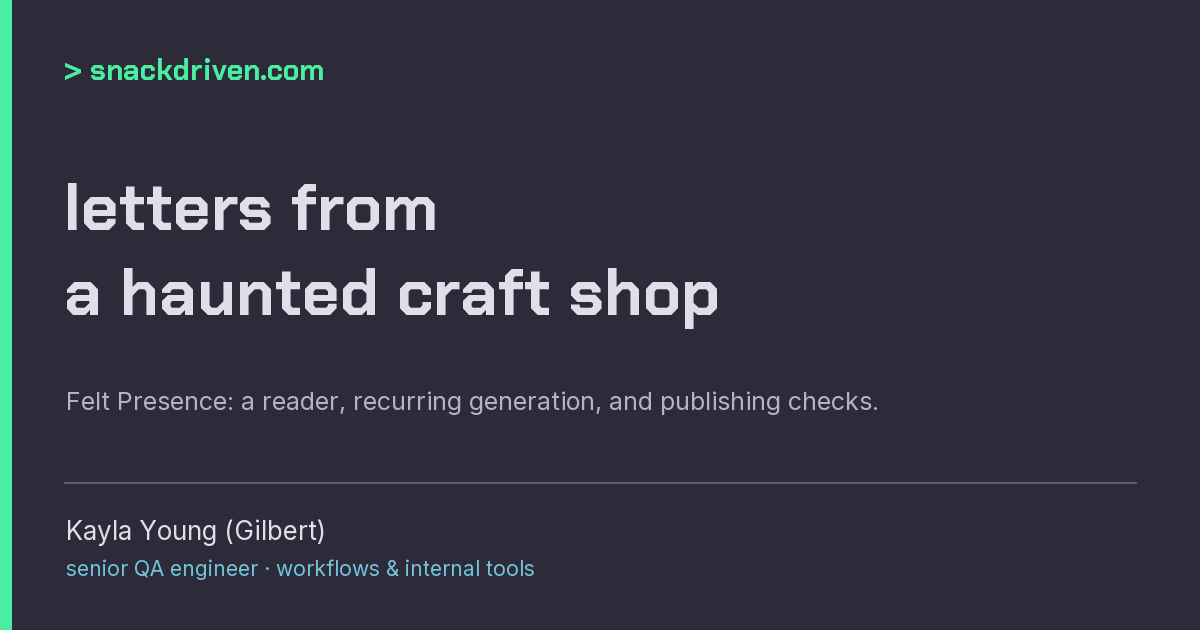
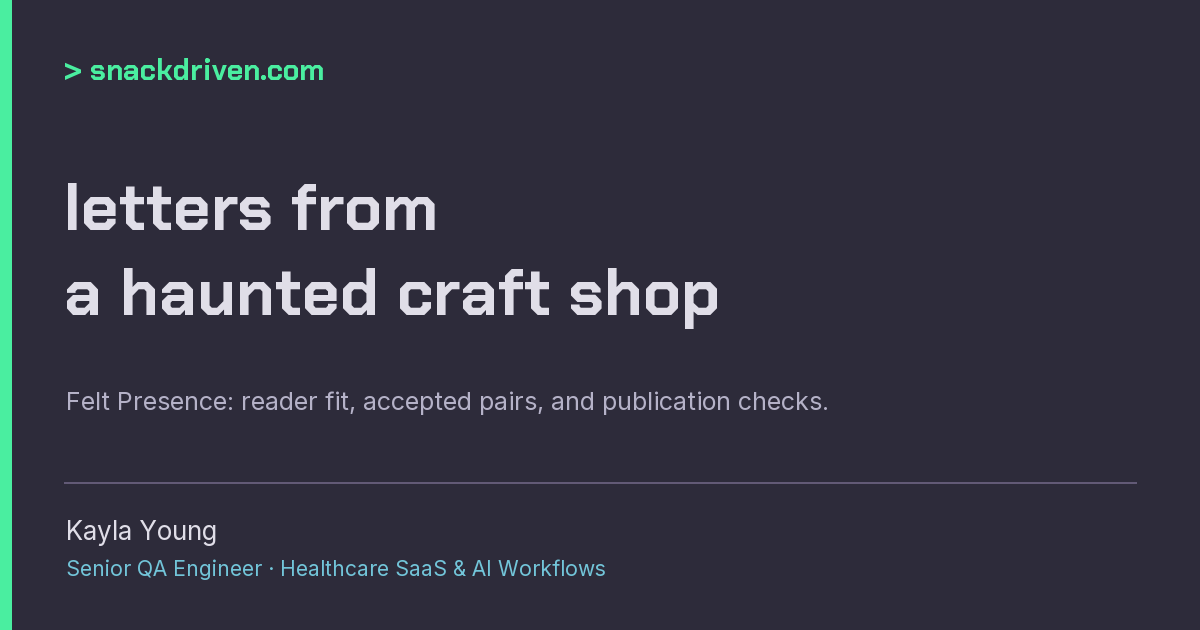
post: align portfolio case studies with current QA positioning

Changed region(s): [[0.0617, 0.8143, 0.4933, 0.9349], [0.185, 0.6032, 0.74, 0.6635]]

diff --git a/portfolio/projects/release-readiness.html b/portfolio/projects/release-readiness.html
@@ -2,16 +2,16 @@
 <html lang="en" data-theme="dark" data-ornament="signal">
 <head>
 <meta charset="UTF-8"><meta name="viewport" content="width=device-width, initial-scale=1">
-<meta name="description" content="Recurring release readiness: reconciling scope, preparing candidates, checking deployed builds, and coordinating engineering and delivery handoffs.">
+<meta name="description" content="How Kayla Young checked release scope against merged code and deployed builds, designed release-status workflows, and verified handoffs.">
 <meta property="og:title" content="Release readiness | Kayla Young">
-<meta property="og:description" content="Recurring release readiness: reconciling scope, preparing candidates, checking deployed builds, and coordinating engineering and delivery handoffs.">
+<meta property="og:description" content="How Kayla Young checked release scope against merged code and deployed builds, designed release-status workflows, and verified handoffs.">
 <meta property="og:url" content="https://snackdriven.com/portfolio/projects/release-readiness.html">
 <meta property="og:type" content="article">
-<meta property="og:image" content="https://snackdriven.com/assets/social/portfolio.png">
+<meta property="og:image" content="https://snackdriven.com/assets/social/release-readiness.png?v=37c87c6cac01">
 <meta property="og:image:width" content="1200"><meta property="og:image:height" content="630">
-<meta property="og:image:alt" content="Kayla Young: QA, useful tools, and a little weirdness.">
+<meta property="og:image:alt" content="Release readiness: what was ready and what actually shipped. Kayla Young, Senior QA Engineer.">
 <meta name="twitter:card" content="summary_large_image">
-<meta name="twitter:image" content="https://snackdriven.com/assets/social/portfolio.png">
+<meta name="twitter:image" content="https://snackdriven.com/assets/social/release-readiness.png?v=37c87c6cac01">
 <link rel="canonical" href="https://snackdriven.com/portfolio/projects/release-readiness.html">
 <title>Release readiness | Kayla Young</title>
 <link rel="stylesheet" href="/assets/site.css"><link rel="stylesheet" href="case-study.css"><link rel="stylesheet" href="portfolio-case-study.css"><link rel="stylesheet" href="../portfolio-system.css"><link rel="stylesheet" href="release-readiness.css">
@@ -38,14 +38,14 @@
 <a class="back-link" href="/portfolio/#selected-projects">&larr; Back to selected projects</a>
 <p class="case-kicker">Professional QA &middot; Release coordination</p>
 <h1>Keeping releases straight.</h1>
-<p class="case-lead">I reconciled scope, prepared release candidates, checked deployed builds, and coordinated engineering and delivery handoffs.</p>
+<p class="case-lead">I checked ticket scope against merged code and deployed builds, repeated staging smokes when candidates changed, and handed release and rollback versions to infrastructure.</p>
 <p class="case-result"><strong>Team use:</strong> Colleagues relied on my release cuts; delivery used my production update to plan customer communication.</p>
 <dl class="case-facts"><div><dt>Period</dt><dd>Dated examples from April&ndash;October 2026</dd></div><div><dt>My responsibility</dt><dd>Release preparation, readiness checks, and handoffs</dd></div></dl>
 </div><div class="case-layout">
 <nav class="contents" aria-label="On this page"><div class="contents-inner"><h2>On this page</h2><a href="#problem">Problem</a><a href="#decisions">Decisions</a><a href="#continuity">Over time</a><a href="#team-use">Team use</a><a href="#shared-qa">Shared QA changes</a><a href="#limits">Scope</a></div></nav>
 <article class="case-body">
 <section id="problem"><h2 class="case-section-label"><span class="case-section-number" aria-hidden="true">01</span><span>Problem</span></h2><div class="case-section-content"><p>Ticket status, merged code, and deployed builds could disagree. I reconciled them so engineering knew what to test and delivery knew what had reached production.</p></div></section>
-<section id="decisions"><h2 class="case-section-label"><span class="case-section-number" aria-hidden="true">02</span><span>Decisions</span></h2><div class="case-section-content"><p>I checked scope against merged code and tags, kept environment status separate, and repeated smokes when candidates changed. Infrastructure colleagues handled their production steps.</p><p>My tools assembled Jira, GitHub, and release context. AI helped with implementation and drafts; I reviewed the evidence and controlled posting. <a href="qa-workflow.html">See the review workflow</a>.</p></div></section>
+<section id="decisions"><h2 class="case-section-label"><span class="case-section-number" aria-hidden="true">02</span><span>Decisions</span></h2><div class="case-section-content"><p>I checked scope against merged code and tags, kept environment status separate, and repeated smokes when candidates changed. Infrastructure colleagues handled their production steps.</p><p>I designed a release-status workflow combining Jira, GitHub PR state and release discussions into Google Docs and Confluence updates. AI handled implementation and draft assembly; I reviewed the evidence, controlled posting, and kept QA acceptance verdicts human-written. <a href="qa-workflow.html">See the review workflow</a>.</p></div></section>
 <section id="continuity"><h2 class="case-section-label"><span class="case-section-number" aria-hidden="true">03</span><span>Over time</span></h2><div class="case-section-content">
 <ol class="release-timeline">
 <li><p class="release-date">April&ndash;May 2026</p><h3>Clarify environment status.</h3><p>Prepared release cuts and tags; posted staging and demo status.</p></li>
@@ -53,8 +53,8 @@
 <li><p class="release-date">October 15, 2026</p><h3>Coordinate production.</h3><p>Handed release and rollback versions to infrastructure, then shared production and smoke status with delivery.</p></li>
 <li><p class="release-date">October 22, 2026</p><h3>Follow through after a re-cut.</h3><p>Updated the change record and confirmed it by readback. Escalated a queued deployment to the runner-infrastructure owner.</p></li>
 </ol></div></section>
-<section id="team-use"><h2 class="case-section-label"><span class="case-section-number" aria-hidden="true">04</span><span>Team use</span></h2><div class="case-section-content"><p>In July, a colleague relied on my release cuts and acknowledged the release-hygiene work. In October, delivery replied that it would notify the customer of the production update.</p></div></section>
-<section id="shared-qa"><h2 class="case-section-label"><span class="case-section-number" aria-hidden="true">05</span><span>Shared QA changes</span></h2><div class="case-section-content"><p>In July, I directed AI-assisted fixes to shared end-to-end test setup and worked through engineering review. The change made missing or broken modules fail immediately and limited retries to transient database-connection failures.</p><p>Retained review and merge records show the setup changes and companion testing documentation reached the shared repository. They do not establish a measured reduction in flaky tests.</p></div></section>
+<section id="team-use"><h2 class="case-section-label"><span class="case-section-number" aria-hidden="true">04</span><span>Team use</span></h2><div class="case-section-content"><p>In June, engineering leadership requested the release changelog in Confluence. Colleagues used it to answer a demo-readiness question, then corrected the staging-versus-demo comparison. The document helped with the question; it did not replace checking the environment.</p><p>In July, a colleague relied on my release cuts and acknowledged the release-hygiene work. In October, delivery replied that it would notify the customer of the production update.</p></div></section>
+<section id="shared-qa"><h2 class="case-section-label"><span class="case-section-number" aria-hidden="true">05</span><span>Shared QA changes</span></h2><div class="case-section-content"><p>In July, I specified changes to shared end-to-end test setup, directed AI-assisted implementation, and worked through engineering review. The change made missing or broken modules fail immediately and limited retries to transient database-connection failures.</p><p>Retained review and merge records show the setup changes and companion testing documentation reached the shared repository. They do not establish a measured reduction in flaky tests.</p></div></section>
 <section id="limits"><h2 class="case-section-label"><span class="case-section-number" aria-hidden="true">06</span><span>Scope</span></h2><div class="case-section-content"><p>Dated records show recurring QA preparation and handoffs across April&ndash;October 2026. Release decisions and production responsibilities were shared. These records include no incident-reduction metric.</p></div></section>
 <footer class="case-footer"><a href="platform-investigation.html">Next: Platform QA investigation &rarr;</a><a href="mailto:kayla@snackdriven.com">Contact Kayla</a></footer>
 </article></div></main>

diff --git a/portfolio/projects/qa-workflow.html b/portfolio/projects/qa-workflow.html
@@ -2,16 +2,16 @@
 <html lang="en" data-theme="dark" data-ornament="signal">
 <head>
 <meta charset="UTF-8"><meta name="viewport" content="width=device-width, initial-scale=1">
-<meta name="description" content="How Kayla Young designed an AI-assisted QA workflow that cross-checks requirements, recordings, network evidence, and saved state.">
+<meta name="description" content="How Kayla Young designed QA handoffs from source context through investigation, adversarial review and a human verdict, with saved-state evidence.">
 <meta property="og:title" content="Personal QA workflow | Kayla Young">
-<meta property="og:description" content="How Kayla Young designed an AI-assisted QA workflow that cross-checks requirements, recordings, network evidence, and saved state.">
+<meta property="og:description" content="How Kayla Young designed QA handoffs from source context through investigation, adversarial review and a human verdict, with saved-state evidence.">
 <meta property="og:url" content="https://snackdriven.com/portfolio/projects/qa-workflow.html">
 <meta property="og:type" content="article">
-<meta property="og:image" content="https://snackdriven.com/assets/social/qa-workflow.png">
+<meta property="og:image" content="https://snackdriven.com/assets/social/qa-workflow.png?v=127598232c05">
 <meta property="og:image:width" content="1200"><meta property="og:image:height" content="630">
-<meta property="og:image:alt" content="Personal QA workflow: a project by Kayla Young.">
+<meta property="og:image:alt" content="From investigation to a human verdict. Kayla Young: Healthcare QA and AI workflows.">
 <meta name="twitter:card" content="summary_large_image">
-<meta name="twitter:image" content="https://snackdriven.com/assets/social/qa-workflow.png">
+<meta name="twitter:image" content="https://snackdriven.com/assets/social/qa-workflow.png?v=127598232c05">
 <link rel="canonical" href="https://snackdriven.com/portfolio/projects/qa-workflow.html">
 <title>Personal QA workflow | Kayla Young</title>
 <link rel="stylesheet" href="/assets/site.css"><link rel="stylesheet" href="case-study.css"><link rel="stylesheet" href="portfolio-case-study.css"><link rel="stylesheet" href="../portfolio-system.css"><link rel="stylesheet" href="qa-workflow.css">
@@ -37,7 +37,7 @@
 <div class="case-intro">
 <a class="back-link" href="/portfolio/#selected-projects">&larr; Back to selected projects</a>
 <div class="qa-hero">
-<div><p class="case-kicker">Personal QA workflow</p><h1>A QA packet I can actually use.</h1><p class="case-lead">I designed runbooks that bring ticket context, prior findings, and release information together.</p><p class="case-result"><strong>Result:</strong> Review caught misleading screenshots, environment labels, and saved-state claims.</p></div>
+<div><p class="case-kicker">Personal QA workflow</p><h1>A QA packet I can actually use.</h1><p class="case-lead">I designed handoffs from source context and investigation through adversarial review to a human verdict, then corrected the workflow when its evidence was misleading.</p><p class="case-result"><strong>Result:</strong> Review caught misleading screenshots, environment labels, and saved-state claims.</p></div>
 <aside class="qa-ownership" aria-label="My role"><h2>Designing the handoffs.</h2><p>I defined tool behavior and acceptance checks, directed AI-assisted implementation, and wrote the QA verdicts.</p></aside>
 </div>
 <p id="problem" class="qa-problem">I wanted one packet with expected behavior, regression risks, and the limits of the available evidence.</p>
@@ -76,7 +76,7 @@
 <p class="qa-workbench-note">Reconstructed workflow, not a workplace artifact. Historical coverage limits remain attached.</p>
 </section>
 <div class="qa-story-pair">
-<section id="test-layers"><p class="qa-section-label">Test design</p><h2>Put the assertion in the right place.</h2><p>I put stored vitals and server rules in GraphQL tests. BMI calculated in the interface needed UI coverage.</p><p>Early June 2026 records show dev API checks run and UI checks pending. Later June API and Playwright runs record failures, deferred checks, and local-versus-dev differences.</p><p>In October 2026, I required readings created through the UI in one test tenant. Review made the seed-write guard check the selected tenant, not a requested argument. A build marker checked what the browser actually served.</p></section>
+<section id="test-layers"><p class="qa-section-label">Test design</p><h2>Put the assertion in the right place.</h2><p>I chose the test layer per behavior: GraphQL checks for stored vitals and server rules, UI coverage for BMI calculated in the interface.</p><p>Early June 2026 records show dev API checks run and UI checks pending. Later June API and Playwright runs record failures, deferred checks, and local-versus-dev differences.</p><p>In October 2026, I required readings created through the UI in one test tenant. Review made the seed-write guard check the selected tenant, not a requested argument. A build marker checked what the browser actually served.</p></section>
 <section id="refinement"><p class="qa-section-label">Workflow refinement</p><h2>Sometimes, remove a stage.</h2><p>I retired a parallel-work pipeline with too much overhead and moved an unused impact viewer into a screen I used.</p><p>I switched Kanban lanes to pipeline stages and removed misleading sample cards. One writer per shared document and interruption recovery steps kept handoffs manageable.</p></section>
 </div>
 <section id="maintenance"><p class="qa-section-label">Sustained maintenance &middot; June&ndash;October 2026</p><h2>Keep the tracker honest.</h2><p>A June refinement surfaced work hidden by a project filter and separated tag-cut dates from deployment dates. The running application could still lag behind the deployment API.</p><p>In July, the publishing wrapper gained wake-error retries and a guard against publishing stale source data. The generator produced dated records in October; that does not prove every scheduled publish succeeded.</p></section>
@@ -84,7 +84,7 @@
 <p>After a repaired pilot passed its sample, I asked for more random trials.</p>
 </section>
 <section id="evidence"><p class="qa-section-label">Outputs</p><h2>Useful work, with the limits attached.</h2>
-<p>The workflow produced runbooks and evidence reviews. I combined Jira, GitHub, and release discussions into Google Docs and Confluence updates. I operated the tools; colleagues followed releases through the documents. <a href="release-readiness.html">Read the release-readiness case</a>.</p>
+<p>The workflow produced runbooks and evidence reviews. A related release-status workflow combined Jira, GitHub PR state and release discussions into Google Docs and Confluence updates. Engineering leadership requested Confluence delivery; colleagues used the changelog for demo-readiness questions. I kept the acceptance verdicts human-written. <a href="release-readiness.html">Read the release-readiness case</a>.</p>
 <details class="qa-evidence-detail"><summary>Inspect a synthetic saved-state evidence record</summary><figure class="evidence-example"><p class="figure-label">Synthetic example &middot; Invented settings and values</p><div class="evidence-table"><table role="table"><caption>How a saved-state claim becomes reviewable</caption><thead role="rowgroup"><tr role="row"><th scope="col" role="columnheader">Check</th><th scope="col" role="columnheader">Example record</th></tr></thead><tbody role="rowgroup"><tr role="row"><th scope="row" role="rowheader">Starting state</th><td role="cell">Weekly digest on; reminder off. Record starting values.</td></tr><tr role="row"><th scope="row" role="rowheader">Action and request</th><td role="cell">Change another display option, save, and inspect the request.</td></tr><tr role="row"><th scope="row" role="rowheader">Reload and control</th><td role="cell">Read back both settings and an unaffected control.</td></tr><tr role="row"><th scope="row" role="rowheader">Conclusion</th><td role="cell">A Save click does not prove persistence.</td></tr><tr role="row"><th scope="row" role="rowheader">Open scope</th><td role="cell">Other accounts and browsers untested.</td></tr></tbody></table></div><figcaption>Fictional evidence structure, not a workplace artifact or reported finding.</figcaption></figure></details>
 </section>
 <section id="limits"><p class="qa-section-label">Limits and lessons</p><h2>Keep the unfinished work visible.</h2><p>This was personal QA tooling. In September 2026, I retired demo-document polling, then the changelog Google Docs poster. The markdown generator and Confluence publishing were unaffected. I corrected stale information and environment mix-ups; later work covered coverage review, browser harnesses, and CI triage. These records do not establish complete current care-module coverage.</p><p>A useful packet lets me start work and see what remains unchecked.</p></section>

diff --git a/portfolio/projects/platform-investigation.html b/portfolio/projects/platform-investigation.html
@@ -2,16 +2,16 @@
 <html lang="en" data-theme="dark" data-ornament="signal">
 <head>
 <meta charset="UTF-8"><meta name="viewport" content="width=device-width, initial-scale=1">
-<meta name="description" content="A four-day staging QA investigation organized around evidence, recurring patterns, data risk, and coverage limits.">
+<meta name="description" content="How Kayla Young set QA priorities, checked persistence evidence, and grouped 250 staging findings into recurring patterns, data risks and product questions.">
 <meta property="og:title" content="Platform QA investigation | Kayla Young">
-<meta property="og:description" content="A four-day staging QA investigation organized around evidence, recurring patterns, data risk, and coverage limits.">
+<meta property="og:description" content="How Kayla Young set QA priorities, checked persistence evidence, and grouped 250 staging findings into recurring patterns, data risks and product questions.">
 <meta property="og:url" content="https://snackdriven.com/portfolio/projects/platform-investigation.html">
 <meta property="og:type" content="article">
-<meta property="og:image" content="https://snackdriven.com/assets/social/platform-investigation.png">
+<meta property="og:image" content="https://snackdriven.com/assets/social/platform-investigation.png?v=ff16b3d10a59">
 <meta property="og:image:width" content="1200"><meta property="og:image:height" content="630">
-<meta property="og:image:alt" content="Platform QA investigation: a project by Kayla Young.">
+<meta property="og:image:alt" content="250 findings, 23 recurring patterns: persistence evidence and an engineering handoff. Kayla Young.">
 <meta name="twitter:card" content="summary_large_image">
-<meta name="twitter:image" content="https://snackdriven.com/assets/social/platform-investigation.png">
+<meta name="twitter:image" content="https://snackdriven.com/assets/social/platform-investigation.png?v=ff16b3d10a59">
 <link rel="canonical" href="https://snackdriven.com/portfolio/projects/platform-investigation.html">
 <title>Platform QA investigation | Kayla Young</title>
 <link rel="stylesheet" href="/assets/site.css"><link rel="stylesheet" href="case-study.css"><link rel="stylesheet" href="portfolio-case-study.css"><link rel="stylesheet" href="../portfolio-system.css"><link rel="stylesheet" href="platform-investigation.css">
@@ -37,15 +37,15 @@
 <div class="case-intro">
 <a class="back-link" href="/portfolio/#selected-projects">&larr; Back to selected projects</a>
 <div class="platform-hero"><div><p class="case-kicker">Professional QA investigation</p>
-<h1>Making a platform-wide QA investigation usable.</h1>
-<p class="case-lead">I directed an AI-assisted staging pass and turned reviewed findings into patterns, data risks, and decisions for product and engineering.</p></div>
+<h1>From staging findings to an engineering handoff.</h1>
+<p class="case-lead">I set test priorities, challenged saved-state claims, and reviewed the evidence from a four-day staging investigation before routing risks and open decisions to engineering.</p></div>
 <aside class="platform-readout" aria-label="Investigation handoff"><p class="platform-count">250 <span>documented findings</span></p><dl><div><dt>23</dt><dd>Recurring patterns</dd></div><div><dt>5</dt><dd>Unresolved decisions for owners</dd></div></dl><p>The VP of Engineering shared the readout, directing engineers to the summary before filing tickets.</p></aside></div>
 <dl class="case-facts"><div><dt>Scope</dt><dd>Four-day staging pass; one QA account, Chromium, seeded data</dd></div><div><dt>My role</dt><dd>Test strategy, investigation direction, evidence review, reporting</dd></div></dl>
 </div><div class="case-layout">
 <nav class="contents" aria-label="On this page"><div class="contents-inner"><h2>On this page</h2><a href="#problem">Problem</a><a href="#decisions">Decisions</a><a href="#validation">Validation</a><a href="#evidence">Evidence</a><a href="#limits">Limits</a></div></nav>
 <article class="case-body">
 <section id="problem"><h2 class="case-section-label"><span class="case-section-number" aria-hidden="true">01</span><span>Problem</span></h2><div class="case-section-content"><p>Ahead of launch decisions, the team needed staging findings sorted by data risk, related failures, and open product questions.</p><p>I prioritized the risks and showed where coverage stopped.</p></div></section>
-<section id="decisions"><h2 class="case-section-label"><span class="case-section-number" aria-hidden="true">02</span><span>Decisions</span></h2><div class="case-section-content"><p>I directed AI-assisted browser harnesses across application sections, admin settings, and cross-page behavior. I checked beyond Save: refreshes, stale forms, repeated actions, and changes elsewhere.</p><p>I grouped 250 findings into 23 patterns, separating observations from intended-behavior questions. Five decisions went to product and engineering owners.</p>
+<section id="decisions"><h2 class="case-section-label"><span class="case-section-number" aria-hidden="true">02</span><span>Decisions</span></h2><div class="case-section-content"><p>I defined investigation priorities and directed AI-assisted browser runs across application sections, admin settings, and cross-page behavior. I checked refreshes, stale forms, repeated actions, and changes elsewhere after a save.</p><p>I grouped 250 findings into 23 patterns, separating observations from intended-behavior questions. Five decisions went to product and engineering owners.</p>
 <figure><p class="figure-label">Illustrative reconstruction · No product data</p><div class="reconstruction"><div><strong>Finding</strong>A saved setting appears to revert on refresh.</div><div><strong>Evidence needed</strong>Record save, refresh, and readback, with starting values and an unaffected control.</div><div><strong>Risk</strong>A user may rely on state that did not persist.</div><div><strong>Open decision</strong>Who defines persistence behavior?</div><div><strong>Untested scope</strong>Other accounts and devices untested.</div></div><figcaption>Fictional reporting example, not a product screenshot or actual finding.</figcaption></figure></div></section>
 <section id="validation"><h2 class="case-section-label"><span class="case-section-number" aria-hidden="true">03</span><span>Validation</span></h2><div class="case-section-content"><p>I repeated checks and used a second review to challenge higher-impact findings. Configuration checks led to withdrawals; one result became flaky on retest. Stored-data claims required save and readback.</p><p>The footage audit separated full matches, partial support, and unrecorded steps. A Save click alone did not prove persistence.</p></div></section>
 <section id="evidence"><h2 class="case-section-label"><span class="case-section-number" aria-hidden="true">04</span><span>Evidence</span></h2><div class="case-section-content"><dl class="case-facts case-details"><div><dt>Findings</dt><dd>250 documented findings in 23 recurring patterns</dd></div><div><dt>Handoff</dt><dd>Five decisions routed to product and engineering owners</dd></div></dl><p>The prioritized readout highlighted 22 data risks covering 53 flagged issues, with supporting evidence.</p>

diff --git a/portfolio/projects/agent-evaluation.html b/portfolio/projects/agent-evaluation.html
@@ -7,11 +7,11 @@
 <meta property="og:description" content="Paging Dr. Placebo: a synthetic scheduling-agent lab that checks claimed outcomes against saved state and tests the checker with planted contradictions.">
 <meta property="og:url" content="https://snackdriven.com/portfolio/projects/agent-evaluation.html">
 <meta property="og:type" content="article">
-<meta property="og:image" content="https://snackdriven.com/assets/social/portfolio.png">
+<meta property="og:image" content="https://snackdriven.com/assets/social/agent-evaluation.png?v=766a9dee2cff">
 <meta property="og:image:width" content="1200"><meta property="og:image:height" content="630">
-<meta property="og:image:alt" content="Paging Dr. Placebo: a synthetic agent-evaluation project by Kayla Young.">
+<meta property="og:image:alt" content="Did the agent actually book it? Synthetic saved-state checks and tests for the checker. Kayla Young.">
 <meta name="twitter:card" content="summary_large_image">
-<meta name="twitter:image" content="https://snackdriven.com/assets/social/portfolio.png">
+<meta name="twitter:image" content="https://snackdriven.com/assets/social/agent-evaluation.png?v=766a9dee2cff">
 <link rel="canonical" href="https://snackdriven.com/portfolio/projects/agent-evaluation.html">
 <title>Agent evaluation | Kayla Young</title>
 <link rel="stylesheet" href="/assets/site.css"><link rel="stylesheet" href="case-study.css"><link rel="stylesheet" href="portfolio-case-study.css"><link rel="stylesheet" href="../portfolio-system.css">
@@ -39,8 +39,9 @@
 <p class="case-lead">Paging Dr. Placebo checks a scheduling agent&rsquo;s claimed outcome against what the system saved.</p>
 <p><a href="https://github.com/snackdriven/paging-dr-placebo">View the public repository</a></p>
 <dl class="case-facts"><div><dt>My role</dt><dd>Requirements, acceptance checks, implementation direction and review</dd></div><div><dt>Scope</dt><dd>Synthetic data and evaluation-harness behavior</dd></div></dl>
-</div><div class="case-layout"><nav class="contents" aria-label="On this page"><div class="contents-inner"><h2>On this page</h2><a href="#problem">Problem</a><a href="#design">The design</a><a href="#release-gate">What I would gate a release on</a><a href="#limits">What this establishes</a></div></nav><article class="case-body"><section id="problem"><h2 class="case-section-label"><span class="case-section-number" aria-hidden="true">01</span><span>Problem</span></h2><div class="case-section-content"><p>A scheduling agent can say &ldquo;booked&rdquo; when no appointment was saved. The person relying on it is left with a promise the system never kept.</p></div></section>
+</div><div class="case-layout"><nav class="contents" aria-label="On this page"><div class="contents-inner"><h2>On this page</h2><a href="#problem">Problem</a><a href="#design">The design</a><a href="#release-gate">What I would gate a release on</a><a href="#evidence">Checking the checker</a><a href="#limits">What this establishes</a></div></nav><article class="case-body"><section id="problem"><h2 class="case-section-label"><span class="case-section-number" aria-hidden="true">01</span><span>Problem</span></h2><div class="case-section-content"><p>A scheduling agent can say &ldquo;booked&rdquo; when no appointment was saved. The person relying on it is left with a promise the system never kept.</p></div></section>
 <section id="design"><h2 class="case-section-label"><span class="case-section-number" aria-hidden="true">02</span><span>The design</span></h2><div class="case-section-content"><p>I specified a synthetic lab with the agent, backend state and independent observer kept separate. I defined the requirements and acceptance checks and directed implementation. The observer compares the agent&rsquo;s claim with what the backend saved; planted contradictions test whether the observer catches a mismatch.</p></div></section>
 <section id="release-gate"><h2 class="case-section-label"><span class="case-section-number" aria-hidden="true">03</span><span>What I would gate a release on</span></h2><div class="case-section-content"><p>A success verdict needs matching saved state. A missing or mismatched appointment should fail the check. Ambiguous outcomes need review rather than a confident success label.</p></div></section>
-<section id="limits"><h2 class="case-section-label"><span class="case-section-number" aria-hidden="true">04</span><span>What this establishes</span></h2><div class="case-section-content"><p>The lab demonstrates a repeatable way to test false-success detection and the checker&rsquo;s failure modes. It uses fictional data and a deterministic default agent. These checks establish evaluation-harness behavior; they do not establish live-model accuracy, real patient outcomes, clinical readiness or production readiness.</p></div></section>
+<section id="evidence"><h2 class="case-section-label"><span class="case-section-number" aria-hidden="true">04</span><span>Checking the checker</span></h2><div class="case-section-content"><p>The observer tests start with a passing evidence bundle and change what it contains. One test adds a booking claim for an unbooked slot and expects an unsupported-claim failure. Another removes the saved booking and expects the state comparison to fail. A missing database snapshot must return an inconclusive result rather than pass.</p><p><a href="https://github.com/snackdriven/paging-dr-placebo/blob/3370b09472d8d9cd51c8ff1f3e01dd9e71e2e192/tests/observer/observer-mutations.test.ts">Read the pinned observer tests</a> and <a href="https://github.com/snackdriven/paging-dr-placebo/blob/3370b09472d8d9cd51c8ff1f3e01dd9e71e2e192/reports/latest-evaluation.md">the stored deterministic report</a>. These are source and recorded results inspected for this case study, not a fresh run or a live-model benchmark.</p></div></section>
+<section id="limits"><h2 class="case-section-label"><span class="case-section-number" aria-hidden="true">05</span><span>What this establishes</span></h2><div class="case-section-content"><p>The lab demonstrates a repeatable way to test false-success detection and the checker&rsquo;s failure modes. It uses fictional data and a deterministic default agent. These checks establish evaluation-harness behavior; they do not establish live-model accuracy, real patient outcomes, clinical readiness or production readiness.</p></div></section>
 <footer class="case-footer"><a href="qa-workflow.html">Next: Personal QA workflow &rarr;</a><a href="mailto:kayla@snackdriven.com">Contact Kayla</a></footer></article></div></main></body></html>

diff --git a/portfolio/projects/felt-presence.html b/portfolio/projects/felt-presence.html
@@ -2,16 +2,16 @@
 <html lang="en" class="felt-case">
 <head>
 <meta charset="UTF-8"><meta name="viewport" content="width=device-width, initial-scale=1">
-<meta name="description" content="How Kayla Young shaped Felt Presence, from its illustrated story reader to recurring AI-assisted content and automatic publishing.">
+<meta name="description" content="How Kayla Young shaped an illustrated reader, checked its opening view and small-screen fit, and reviewed publication checks for accepted story/image pairs.">
 <meta property="og:title" content="Felt Presence | Kayla Young">
-<meta property="og:description" content="How Kayla Young shaped Felt Presence, from its illustrated story reader to recurring AI-assisted content and automatic publishing.">
+<meta property="og:description" content="How Kayla Young shaped an illustrated reader, checked its opening view and small-screen fit, and reviewed publication checks for accepted story/image pairs.">
 <meta property="og:url" content="https://snackdriven.com/portfolio/projects/felt-presence.html">
 <meta property="og:type" content="article">
-<meta property="og:image" content="https://snackdriven.com/assets/social/felt-presence.png">
+<meta property="og:image" content="https://snackdriven.com/assets/social/felt-presence.png?v=1d56f2c8390c">
 <meta property="og:image:width" content="1200"><meta property="og:image:height" content="630">
-<meta property="og:image:alt" content="Felt Presence: a project by Kayla Young.">
+<meta property="og:image:alt" content="Letters from a haunted craft shop: reader fit, accepted pairs and publication checks. Kayla Young.">
 <meta name="twitter:card" content="summary_large_image">
-<meta name="twitter:image" content="https://snackdriven.com/assets/social/felt-presence.png">
+<meta name="twitter:image" content="https://snackdriven.com/assets/social/felt-presence.png?v=1d56f2c8390c">
 <link rel="canonical" href="https://snackdriven.com/portfolio/projects/felt-presence.html">
 <title>Felt Presence | Kayla Young</title>
 <link rel="stylesheet" href="/assets/site.css"><link rel="stylesheet" href="case-study.css"><link rel="stylesheet" href="felt-presence.css">
@@ -34,12 +34,12 @@
 </div>
 <figure class="felt-scene"><img src="felt-presence-puppet-theatre.png" width="1536" height="1024" alt="In the craft shop, a ceramic pumpkin in a six-pocket mustard waistcoat holds a green curtain while a ghost under a patchwork quilt steadies a cardboard puppet theatre. A miniature skeleton hangs a paper moon from a rear shelf." fetchpriority="high"><figcaption>A little theatre, made together in the shop.</figcaption></figure>
 <div class="felt-overview">
-<p class="case-lead">I shaped an illustrated reader for a fictional haunted craft shop, then connected recurring AI-assisted stories and illustrations to automatic publishing.</p>
+<p class="case-lead">I shaped an illustrated reader for a fictional haunted craft shop and checked the opening view, reading layout, and handoff from accepted story/image pairs to publication.</p>
 <p class="case-result"><strong>Result:</strong> A public reader that publishes complete, accepted story/image pairs.</p>
 <p class="felt-invitation"><a href="https://felt-presence.snackdriven.com/">Step inside the shop</a></p>
 </div>
 </div>
-<dl class="case-facts"><div><dt>Context</dt><dd>Personal story and reader project</dd></div><div><dt>My role</dt><dd>Creative direction, workflow design, AI-assisted implementation direction, review</dd></div><div><dt>Focus</dt><dd>Reading experience, story continuity, and automatic publishing</dd></div><div><dt>Status</dt><dd><a href="https://felt-presence.snackdriven.com/">Public reader</a>; private source and story archive</dd></div></dl>
+<dl class="case-facts"><div><dt>Context</dt><dd>Personal story and reader project</dd></div><div><dt>My role</dt><dd>Creative direction, workflow design, AI-assisted implementation direction, review</dd></div><div><dt>Focus</dt><dd>Reader usability, story continuity, and publication checks</dd></div><div><dt>Status</dt><dd><a href="https://felt-presence.snackdriven.com/">Public reader</a>; private source and story archive</dd></div></dl>
 <div class="case-layout">
 <nav class="contents" aria-label="On this page"><h2>Contents</h2><a href="#problem">Problem</a><a href="#decisions">Decisions</a><a href="#publishing">Publishing</a><a href="#validation">Validation</a><a href="#evidence">Evidence</a><a href="#limits">Limits</a></nav>
 <article class="case-body">

diff --git a/portfolio/projects/al80-studio.html b/portfolio/projects/al80-studio.html
@@ -2,16 +2,16 @@
 <html lang="en" data-theme="dark" data-ornament="signal">
 <head>
 <meta charset="UTF-8"><meta name="viewport" content="width=device-width, initial-scale=1">
-<meta name="description" content="AL80 Studio, a keyboard control project refined through AI-assisted implementation and hands-on hardware testing.">
+<meta name="description" content="How Kayla Young checked a keyboard display against successful transfer logs, directed a timing and view-switch fix, and confirmed the result on hardware.">
 <meta property="og:title" content="AL80 Studio | Kayla Young">
-<meta property="og:description" content="AL80 Studio, a keyboard control project refined through AI-assisted implementation and hands-on hardware testing.">
+<meta property="og:description" content="How Kayla Young checked a keyboard display against successful transfer logs, directed a timing and view-switch fix, and confirmed the result on hardware.">
 <meta property="og:url" content="https://snackdriven.com/portfolio/projects/al80-studio.html">
 <meta property="og:type" content="article">
-<meta property="og:image" content="https://snackdriven.com/assets/social/al80-studio.png">
+<meta property="og:image" content="https://snackdriven.com/assets/social/al80-studio.png?v=6fb17dac33cf">
 <meta property="og:image:width" content="1200"><meta property="og:image:height" content="630">
-<meta property="og:image:alt" content="AL80 Studio: a project by Kayla Young.">
+<meta property="og:image:alt" content="The logs said yes, the screen said no. Kayla Young: hardware checks for AL80 Studio.">
 <meta name="twitter:card" content="summary_large_image">
-<meta name="twitter:image" content="https://snackdriven.com/assets/social/al80-studio.png">
+<meta name="twitter:image" content="https://snackdriven.com/assets/social/al80-studio.png?v=6fb17dac33cf">
 <link rel="canonical" href="https://snackdriven.com/portfolio/projects/al80-studio.html">
 <title>AL80 Studio | Kayla Young</title>
 <link rel="stylesheet" href="/assets/site.css"><link rel="stylesheet" href="case-study.css"><link rel="stylesheet" href="portfolio-case-study.css"><link rel="stylesheet" href="../portfolio-system.css"><link rel="stylesheet" href="al80-studio.css">
@@ -40,10 +40,10 @@
 <div class="al80-story-intro">
 <p class="case-kicker">AL80 Studio &middot; Personal hardware project</p>
 <h1>The interface was only half the test.</h1>
-<p class="case-lead">Browser controls for the YUNZII AL80&rsquo;s screen, lighting, and keymap, checked against the physical device.</p>
+<p class="case-lead">I tested whether successful image transfers changed the keyboard&rsquo;s display, then confirmed the timing and view-switch fix on the device.</p>
 </div>
 <figure class="al80-product"><a href="/assets/projects/al80-offline.jpg"><img src="/assets/projects/al80-offline.jpg" width="1265" height="889" fetchpriority="high" alt="AL80 Studio showing the clock controls and time preview, with a Disconnected status and disabled Send button."></a><figcaption>Disconnected public-app preview, October 19, 2026. <a href="/assets/projects/al80-offline.jpg">View screenshot full size</a>.</figcaption></figure>
-<aside class="al80-role" aria-label="My role"><h2>I directed and tested the work.</h2><p>Interaction design, AI-assisted implementation direction, troubleshooting, and on-device testing.</p></aside>
+<aside class="al80-role" aria-label="My role"><h2>I directed and tested the work.</h2><p>I shaped the controls and acceptance checks, directed AI implementation, and tested transfer behavior on the device.</p></aside>
 </div>
 <section class="al80-result" aria-labelledby="al80-result-heading"><div><p class="al80-section-label">The decision that changed the result</p><h2 id="al80-result-heading">Confirm the screen, not just the acknowledgment.</h2></div><p>Every image-data block was acknowledged. The keyboard kept the old picture. Setup timing and a trailing view switch needed correcting; I confirmed the result on-device.</p></section>
 <dl class="al80-scope"><div><dt>Browser</dt><dd>Offline preparation and preview. Sending requires a cable and a WebHID-capable browser.</dd></div><div><dt>Local host</dt><dd>One host owns continuously updated screen content.</dd></div><div><dt>Physical display</dt><dd>On-device confirmation of the timing and view-switch fix.</dd></div></dl>

diff --git a/portfolio/index.html b/portfolio/index.html
@@ -8,12 +8,12 @@
 <meta property="og:description" content="QA investigations, release readiness, and the tools I use to test and review software.">
 <meta property="og:url" content="https://snackdriven.com/portfolio/">
 <meta property="og:type" content="website">
-<meta property="og:image" content="https://snackdriven.com/assets/social/portfolio.png">
+<meta property="og:image" content="https://snackdriven.com/assets/social/portfolio.png?v=0ff14d74abae">
 <meta property="og:image:width" content="1200">
 <meta property="og:image:height" content="630">
-<meta property="og:image:alt" content="Kayla Young: QA, useful tools, and a little weirdness.">
+<meta property="og:image:alt" content="Kayla Young: Healthcare QA and AI workflows.">
 <meta name="twitter:card" content="summary_large_image">
-<meta name="twitter:image" content="https://snackdriven.com/assets/social/portfolio.png">
+<meta name="twitter:image" content="https://snackdriven.com/assets/social/portfolio.png?v=0ff14d74abae">
 <link rel="canonical" href="https://snackdriven.com/portfolio/">
 <link rel="icon" href="/assets/brand/favicon.svg" type="image/svg+xml">
 <title>Kayla Young | Senior QA engineer</title>

diff --git a/tools/build_social_previews.py b/tools/build_social_previews.py
@@ -1,6 +1,7 @@
 """Render deterministic, branded 1200x630 share cards using the bundled site fonts.
 
 Requires Pillow. Run from the repository root with python tools/build_social_previews.py.
+Use --only followed by card slugs to regenerate a subset.
 """
 from pathlib import Path
 from PIL import Image, ImageDraw, ImageFont
@@ -10,11 +11,13 @@ OUT = ROOT / 'assets/social'
 FONTS = ROOT / 'tools/resume/fonts'
 CARDS = {
     'site': ('off the happy path', 'debugging, useful tools, and the decisions behind them.'),
-    'portfolio': ('QA, useful tools &\na little weirdness', 'the decisions, debugging, and checks behind the work.'),
-    'qa-workflow': ('from scattered context\nto reviewable QA', 'recordings, network evidence, controls, and a human decision.'),
+    'portfolio': ('Healthcare QA &\nAI workflows', 'test decisions, saved-state checks, and verified outcomes.'),
+    'qa-workflow': ('from investigation\nto a human verdict', 'source context, adversarial review, and saved-state evidence.'),
     'al80-studio': ('the logs said yes.\nthe screen said no.', 'AL80 Studio: browser controls and hands-on hardware debugging.'),
-    'felt-presence': ('letters from\na haunted craft shop', 'Felt Presence: a reader, recurring generation, and publishing checks.'),
-    'platform-investigation': ('250 findings.\n23 recurring patterns.', 'a four-day staging investigation, with its coverage limits attached.'),
+    'felt-presence': ('letters from\na haunted craft shop', 'Felt Presence: reader fit, accepted pairs, and publication checks.'),
+    'release-readiness': ('what was ready?\nwhat actually shipped?', 'scope, release candidates, smokes, and engineering handoffs.'),
+    'agent-evaluation': ('did the agent\nactually book it?', 'synthetic saved-state checks, with tests for the checker.'),
+    'platform-investigation': ('250 findings.\n23 recurring patterns.', 'test priorities, persistence evidence, and an engineering handoff.'),
 }
 
 _font_cache = {}
@@ -25,9 +28,10 @@ def font(name, size):
         _font_cache[key] = ImageFont.truetype(str(FONTS / name), size)
     return _font_cache[key]
 
-def render():
+def render(slugs=None):
     OUT.mkdir(parents=True, exist_ok=True)
-    for slug, (title, description) in CARDS.items():
+    for slug in CARDS if slugs is None else slugs:
+        title, description = CARDS[slug]
         image = Image.new('RGB', (1200, 630), '#2D2B3A')
         draw = ImageDraw.Draw(image)
         draw.rectangle((0, 0, 11, 630), fill='#4AEEA0')
@@ -42,10 +46,14 @@ def render():
             raise ValueError(f'{slug}: description exceeds card width')
         draw.text((66, 385), description, font=body_font, fill='#B5B2C8')
         draw.line((64, 482, 1136, 482), fill='#625A76', width=2)
-        draw.text((66, 514), 'Kayla Young (Gilbert)', font=font('Inter.ttf', 26), fill='#E0DEE8')
-        draw.text((66, 555), 'senior QA engineer · workflows & internal tools', font=font('Inter.ttf', 21), fill='#72C5D9')
+        draw.text((66, 514), 'Kayla Young', font=font('Inter.ttf', 26), fill='#E0DEE8')
+        draw.text((66, 555), 'Senior QA Engineer · Healthcare SaaS & AI Workflows', font=font('Inter.ttf', 21), fill='#72C5D9')
         image.save(OUT / f'{slug}.png', optimize=True)
         print(OUT / f'{slug}.png')
 
 if __name__=='__main__':
-    render()
+    import argparse
+    parser = argparse.ArgumentParser(description=__doc__)
+    parser.add_argument('--only', nargs='+', choices=list(CARDS))
+    args = parser.parse_args()
+    render(args.only)

diff --git a/CHANGELOG.md b/CHANGELOG.md
@@ -9,6 +9,9 @@ and numbered releases follow [Semantic Versioning](https://semver.org/spec/v2.0.
 
 ### Changed
 
+- Align all six portfolio case studies with QA judgment, verified outcomes and explicit AI implementation attribution; surface documented release-status use and pinned synthetic observer evidence.
+- Refresh portfolio share cards with the current public name and healthcare QA framing, including dedicated release-readiness and agent-evaluation previews.
+
 - Publish the reviewed QA and AI-workflow resume with specific test-layer wording, role-grouped experience and linked evaluation projects; align the portfolio headline, availability and title progression.
 
 - Preserve underlines on inline portfolio evidence links in the v2.3 branding.

diff --git a/README.md b/README.md
@@ -2,7 +2,7 @@
 
 **I find bugs for money and introduce them for fun.**
 
-Senior QA Engineer · AI Workflows & Internal Tools. Bentonville, AR (remote).
+Senior QA Engineer · Healthcare SaaS & AI Workflows. Bentonville, AR (remote).
 
 The work I keep coming back to: finding out why something broke, making a tool for the part that got annoying, and occasionally giving a haunted craft shop a publishing schedule.
 
